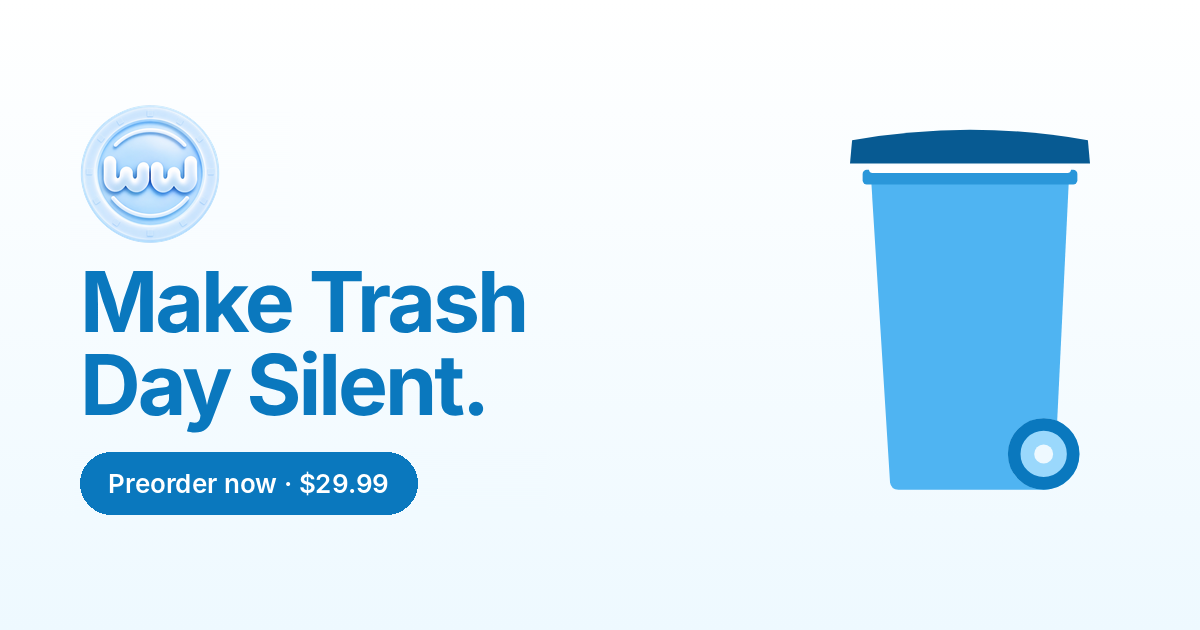
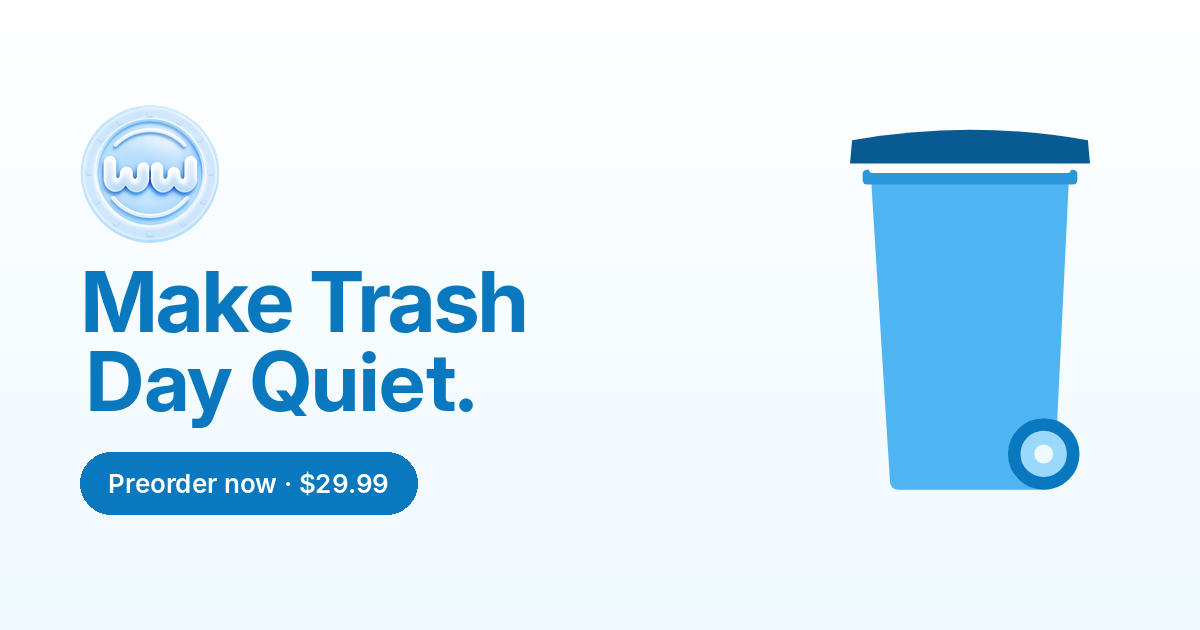
Headline: Make Trash Day Quiet (was Silent) on site, titles and share image
Claude-Session: https://claude.ai/code/session_015b8Pgr9JRJgdn95fD9j3YX

Changed region(s): [[0.0617, 0.5429, 0.4008, 0.6937]]

diff --git a/index.html b/index.html
@@ -4,15 +4,15 @@
 <head>
 <meta charset="utf-8">
 <meta name="viewport" content="width=device-width, initial-scale=1, viewport-fit=cover">
-<title>Whisper Wheels — Make Trash Day Silent</title>
+<title>Whisper Wheels — Make Trash Day Quiet</title>
 <meta name="description" content="Whisper Wheels is a noise-reduction kit for residential trash bins: two slip-on rubber wheel covers and a bonus foam lid strip. Preorder now for $29.99.">
 <meta name="theme-color" content="#DDF3FF">
 <link rel="icon" href="/favicon.png" type="image/png">
 <link rel="apple-touch-icon" href="/apple-touch-icon.png">
 <meta property="og:type" content="website">
-<meta property="og:title" content="Whisper Wheels — Make Trash Day Silent">
+<meta property="og:title" content="Whisper Wheels — Make Trash Day Quiet">
 <meta property="og:description" content="A simple add-on kit for the trash bin you already own. Preorders are open.">
-<meta property="og:image" content="https://www.whisperwheels.shop/og.png?v=2">
+<meta property="og:image" content="https://www.whisperwheels.shop/og.png?v=3">
 <meta property="og:url" content="https://whisperwheels.shop/">
 <link rel="canonical" href="https://whisperwheels.shop/">
 <meta name="twitter:card" content="summary_large_image">
@@ -469,7 +469,7 @@ footer{background:linear-gradient(180deg,var(--ice-blue),#DDF3FF)}
         <span class="pill"><span class="dot"></span>Preorders open</span>
         <span class="pill plain">For US homeowners</span>
       </div>
-      <h1 class="h-split"><span class="ln">Make Trash Day</span> <span class="ln">Silent.</span></h1>
+      <h1 class="h-split"><span class="ln">Make Trash Day</span> <span class="ln">Quiet.</span></h1>
       <p class="lede">Whisper Wheels is a simple add-on kit for the trash bin you already own:<br><strong>two slip-on rubber wheel covers</strong> and<br><strong>a bonus foam lid strip</strong>, designed to soften the rumble and rattle of rolling it to the curb.</p>
 
       <div class="hero-form buy-hero">

diff --git a/shop.html b/shop.html
@@ -9,9 +9,9 @@
 <link rel="icon" href="/favicon.png" type="image/png">
 <link rel="apple-touch-icon" href="/apple-touch-icon.png">
 <meta property="og:type" content="product">
-<meta property="og:title" content="Preorder Whisper Wheels — Make Trash Day Silent">
+<meta property="og:title" content="Preorder Whisper Wheels — Make Trash Day Quiet">
 <meta property="og:description" content="Two slip-on rubber wheel covers + a bonus foam lid strip. Preorder now.">
-<meta property="og:image" content="https://www.whisperwheels.shop/og.png?v=2">
+<meta property="og:image" content="https://www.whisperwheels.shop/og.png?v=3">
 <meta property="og:url" content="https://whisperwheels.shop/shop">
 <link rel="canonical" href="https://whisperwheels.shop/shop">
 <meta name="twitter:card" content="summary_large_image">

diff --git a/README.md b/README.md
@@ -1,6 +1,6 @@
 # Whisper Wheels
 
-Store for Whisper Wheels — "Make Trash Day Silent." Static site on Vercel, preorders paid through Whop.
+Store for Whisper Wheels — "Make Trash Day Quiet." Static site on Vercel, preorders paid through Whop.
 
 - `index.html` — homepage
 - `shop.html` — product page with quantity picker and embedded Whop checkout (`/shop`)
